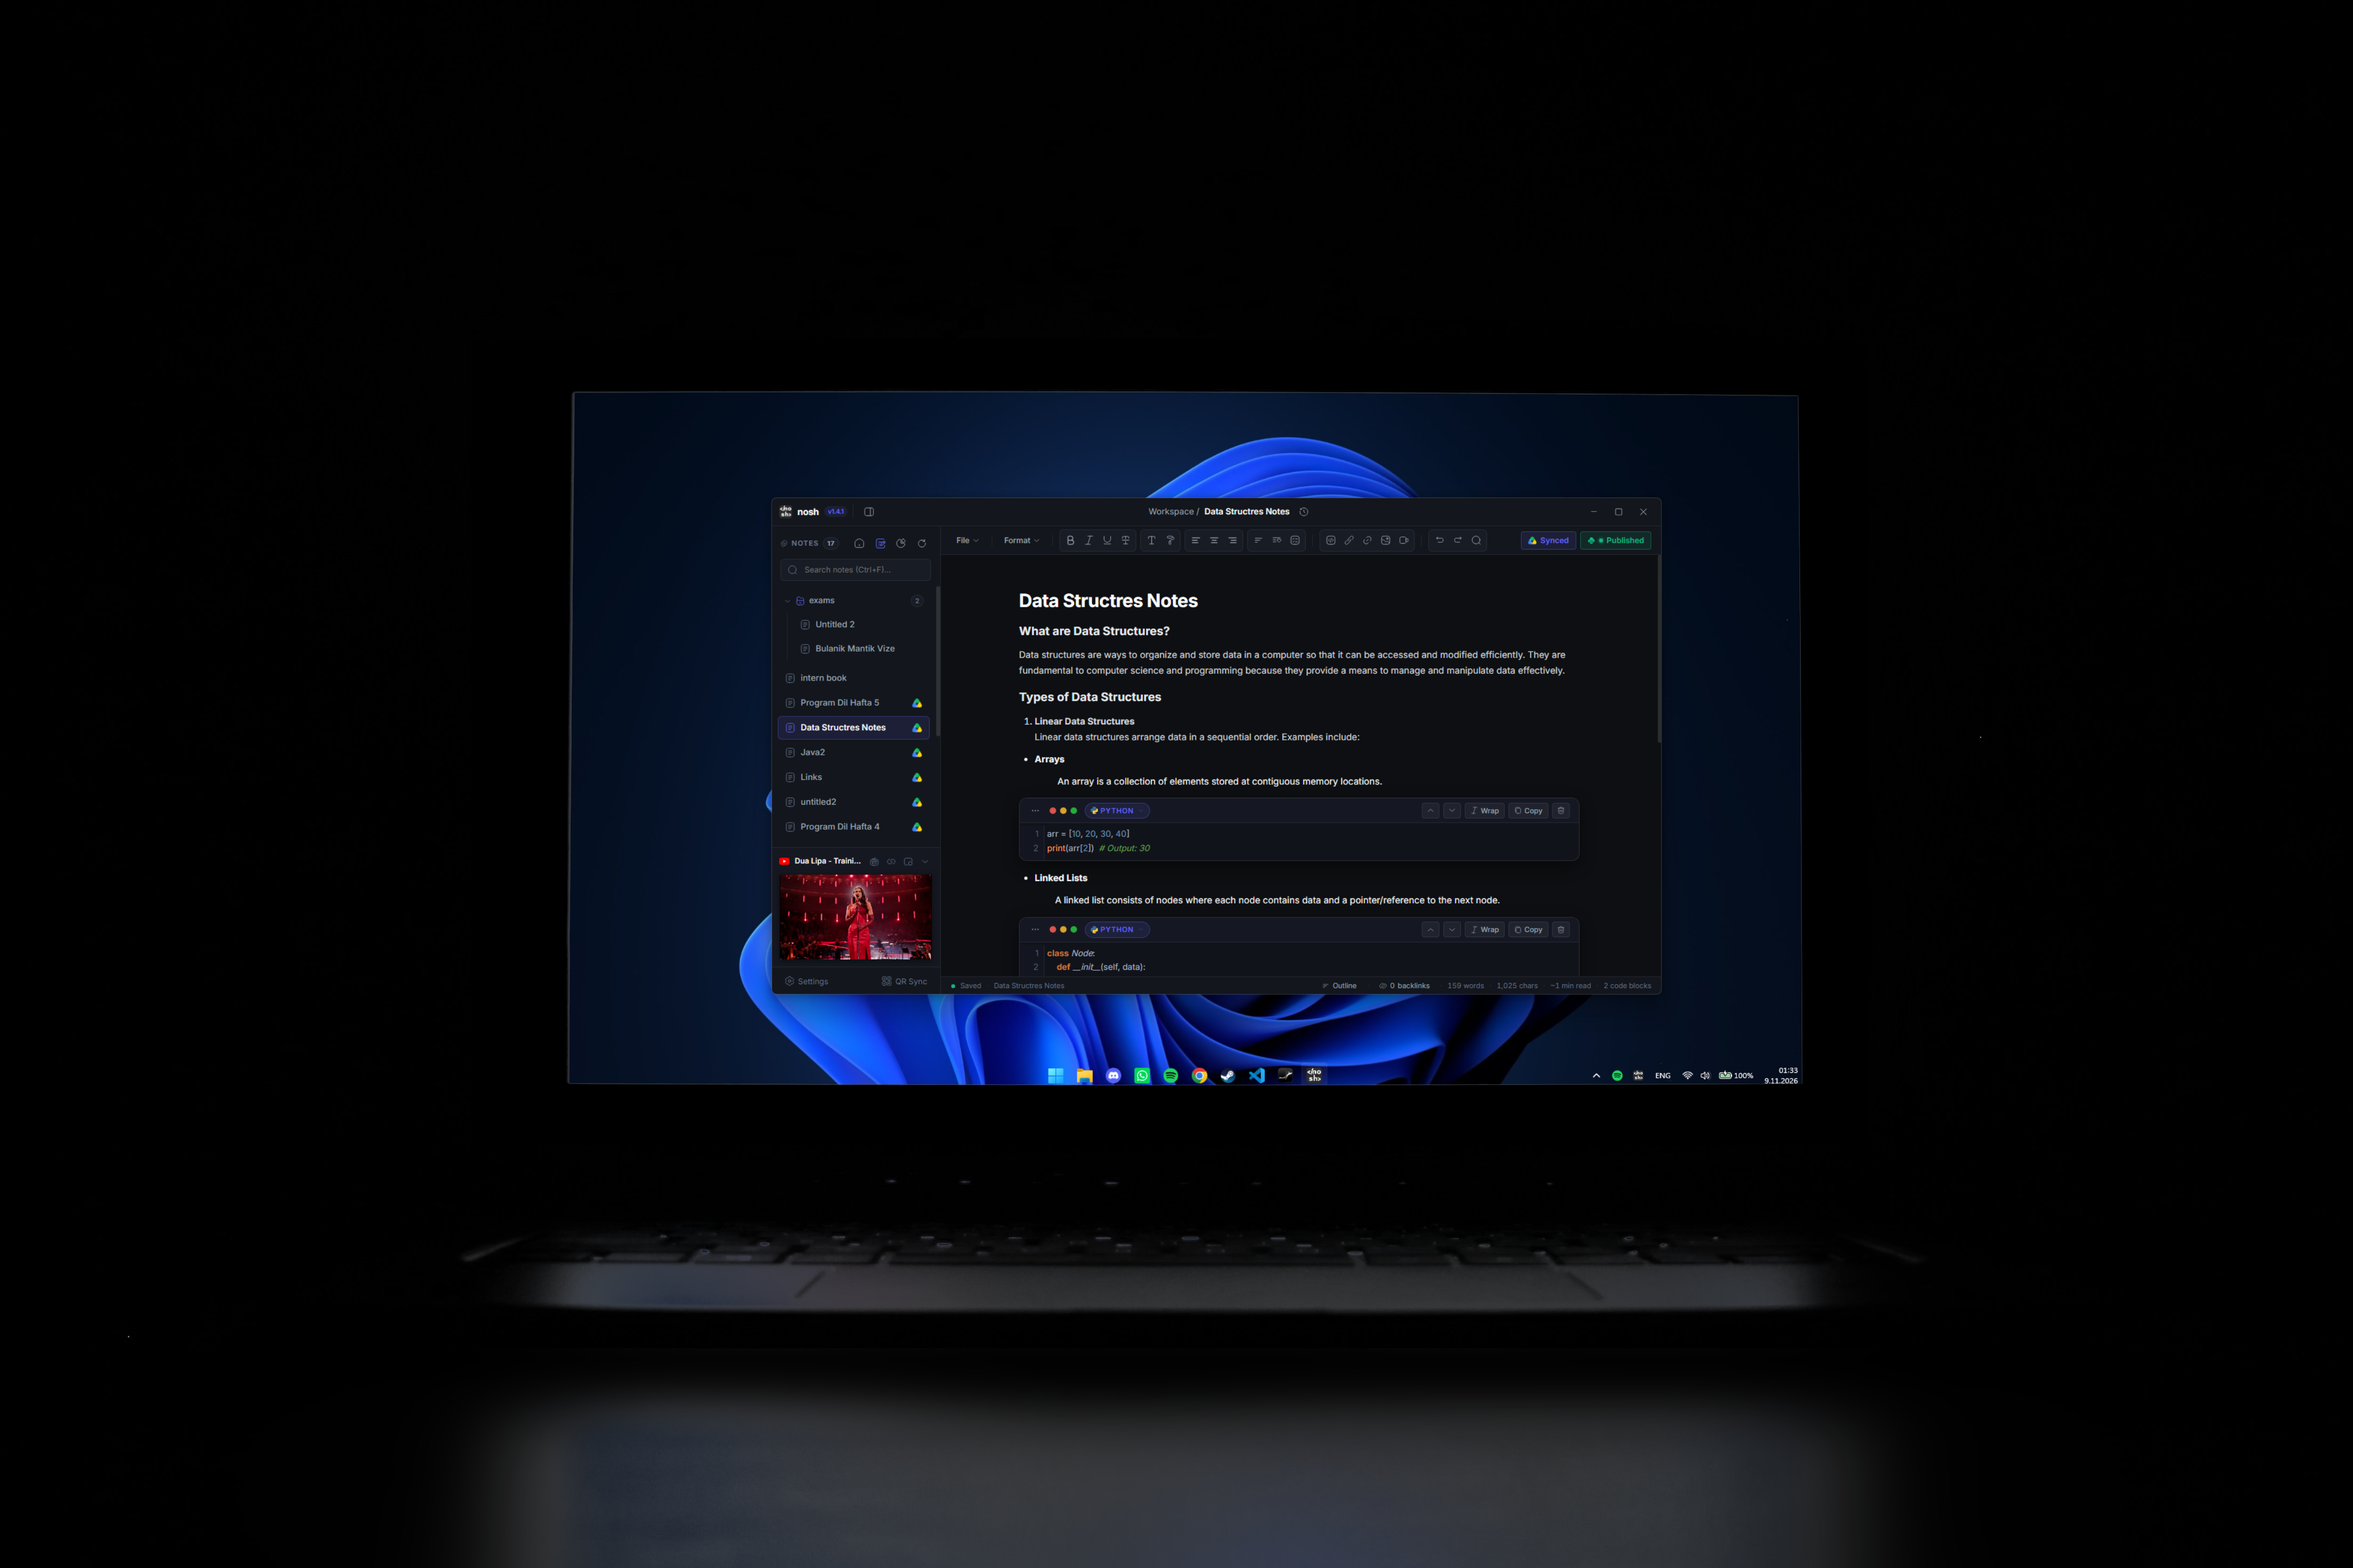
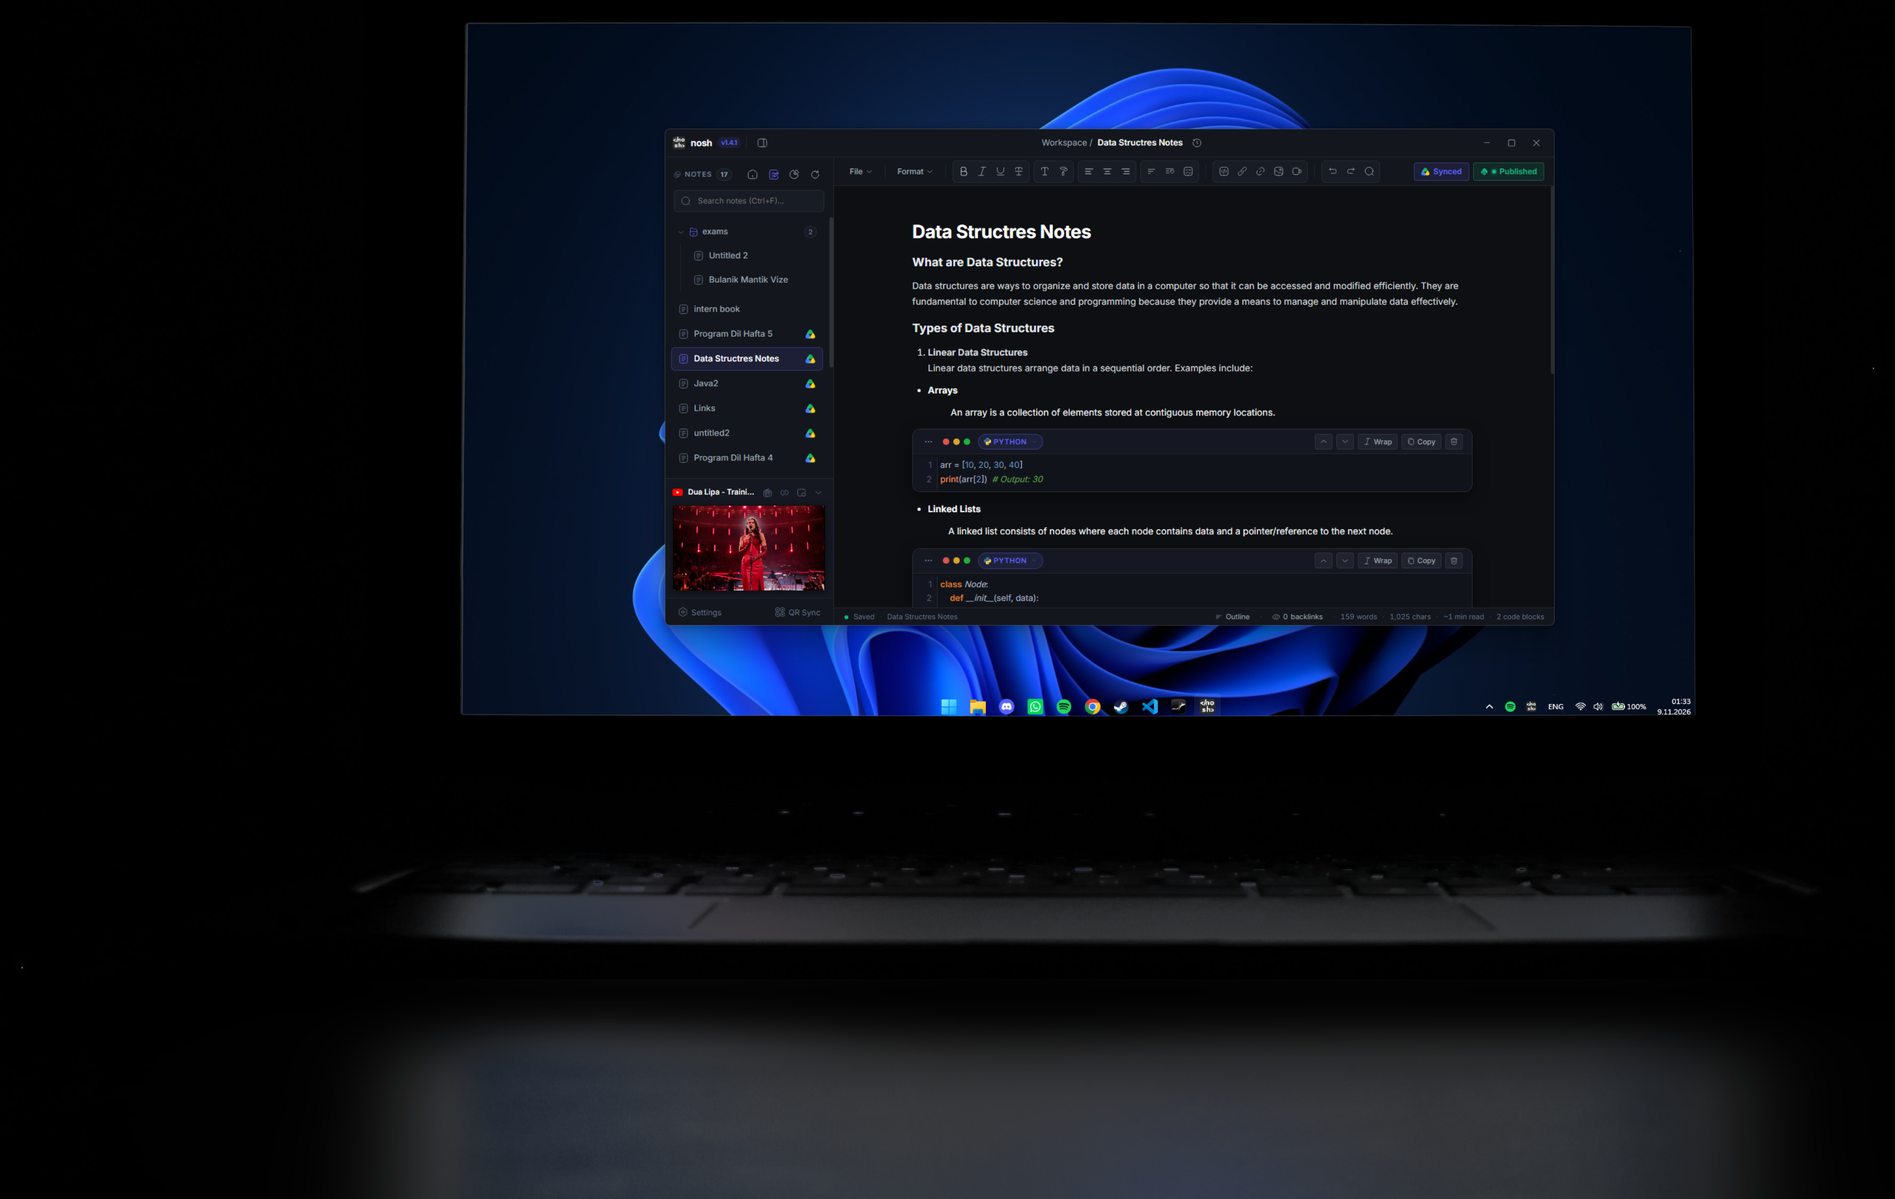
style: expand mockup to fill horizontal space and scale upward cleanly

diff --git a/style.css b/style.css
@@ -238,16 +238,16 @@ a {
     display: flex;
     align-items: center;
     justify-content: space-between;
-    padding-left: clamp(2rem, 4.5vw, 5.5rem);
+    padding-left: clamp(1.5rem, 3.5vw, 4rem);
     padding-right: 0;
     padding-top: 0;
     padding-bottom: 0;
-    gap: 2rem;
+    gap: 1.5rem;
 }
 
 .hero-content {
-    flex: 0 0 min(500px, 40%);
-    max-width: 500px;
+    flex: 0 0 min(470px, 36%);
+    max-width: 470px;
     display: flex;
     flex-direction: column;
     align-items: flex-start;
